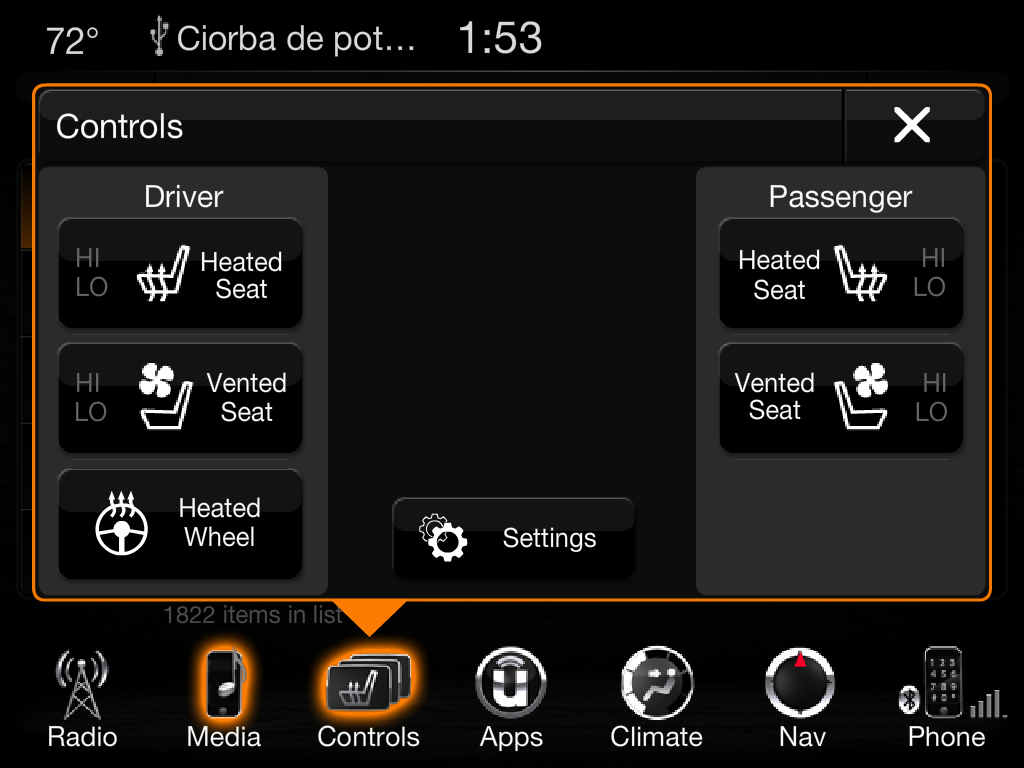
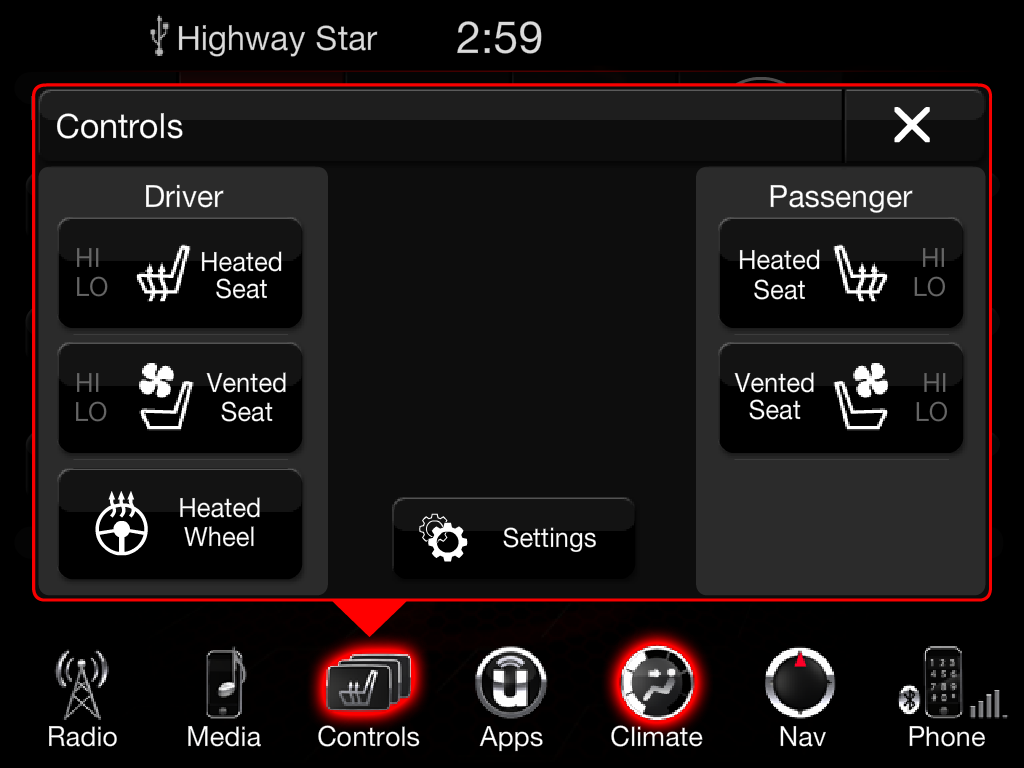
README: new screenshots (Hellcat SRT theme) for every screen and the new features

diff --git a/README.md b/README.md
@@ -17,11 +17,18 @@ regression tour with **zero script errors** in the HMI log:
 | ![](docs/screenshots/phone.png) **Phone** — paired "Pixel 8", favorites, incoming calls ringing with the car's own ringtone | ![](docs/screenshots/phonebook.png) **Phonebook** — 22 contacts, favorites |
 | ![](docs/screenshots/climate.png) **Climate** — temp (LO/60-90/HI), fan 0-7, A/C, MAX A/C, recirc, AUTO, defrost, modes | ![](docs/screenshots/controls.png) **Controls** — heated/vented seats, heated wheel |
 | ![](docs/screenshots/settings.png) **Settings** — Display, Units, Voice, Clock, Safety & Driving Assistance, Lights… (15 menus) | ![](docs/screenshots/apps.png) **Apps** — app grid, drag icons to the menu bar |
-| ![](docs/screenshots/nav.png) **Nav menus** — Where To / View Map / Information / Emergency (no map drawing) | ![](docs/screenshots/nav-where-to.png) **Where To?** — Address, Recent, POI, Favorites, Intersection, Go Home |
+| ![](docs/screenshots/nav.png) **Nav menus** — Where To / View Map / Information / Emergency (no map drawing) | ![](docs/screenshots/themes.png) **Themes** — the car's own theme list (here the SRT set on a Hellcat) |
+| ![](docs/screenshots/drive-modes.png) **SRT Drive Modes** — Default/Sport/Track/Custom, Valet, red/black key | ![](docs/screenshots/drive-modes-custom.png) **Custom Mode Set-Up** — power, transmission, paddles, traction, suspension, steering |
+| ![](docs/screenshots/launch-control.png) **Launch Control / Race Options** — launch RPM, the car's own dial | ![](docs/screenshots/drive-modes-jeep.png) **Grand Cherokee SRT** — Selec-Track modes (here Snow) |
+| ![](docs/screenshots/performance-control.png) **Performance Control** — R/T and Scat Pack: Default/Sport Set-Up | ![](docs/screenshots/language.png) **Languages** — the market's language list, switches live |
+| ![](docs/screenshots/perf-home.png) **Performance Pages** — Home (car pictures per model) | ![](docs/screenshots/perf-timers.png) **Timers** — 0-60, 1/8, 1/4 mile, braking; Current/Last/Best |
+| ![](docs/screenshots/perf-gauges1.png) **Gauges 1** — coolant, oil temp/pressure, battery, trans temp | ![](docs/screenshots/perf-gauges2.png) **Gauges 2** — Hellcat boost, air/fuel, intercooler, intake air |
+| ![](docs/screenshots/perf-gforce.png) **G-Force** — the car leans with lateral g, peaks | ![](docs/screenshots/perf-engine.png) **Engine** — speed, horsepower, torque, boost/oil pressure, gear |
+| ![](docs/screenshots/perf-viper.png) **Viper** — its own SRT Performance Pages app (with Options) | |
 
 Also:
 - **Boot splash** — the car's own brand splash images, chosen exactly like the firmware's `splash.lua` (brand + SRT/SiriusXM/Beats flags).
-- **Themes** — all 46 brand themes (Dodge, Jeep, Chrysler, Ram, SRT, Viper, Fiat, Maserati…); switch from the panel or live in the head unit's own Settings.
+- **Themes** — all brand themes (Dodge, Jeep, Chrysler, Ram, SRT, Viper, Fiat, Maserati…); switch from the panel or live in the head unit's own Settings.
 - **Sound** — Media plays real files through Windows (play/pause/skip/seek, volume knob, mute); incoming calls ring.
 - **Hardware panel** in the browser — volume & tune knobs, faceplate keys, climate knobs, gear shift, theme & splash pickers, restart, raw message injector.
 - **CAN signal map** (`can/`) — 261 CAN message IDs / 1,511 signals (byte, bit, mask, PPS object) extracted from the firmware's `canservice`, for 9 vehicle CAN architectures.
